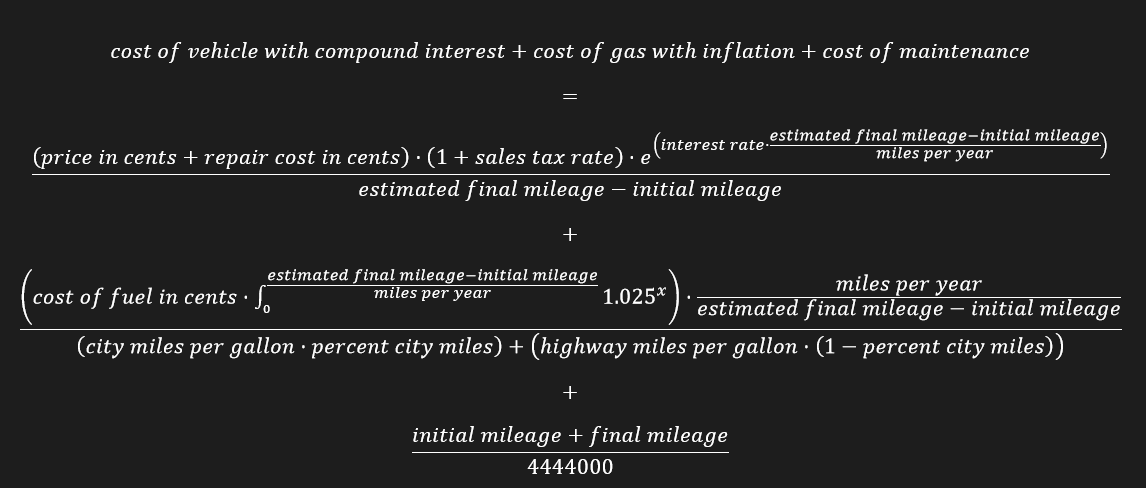
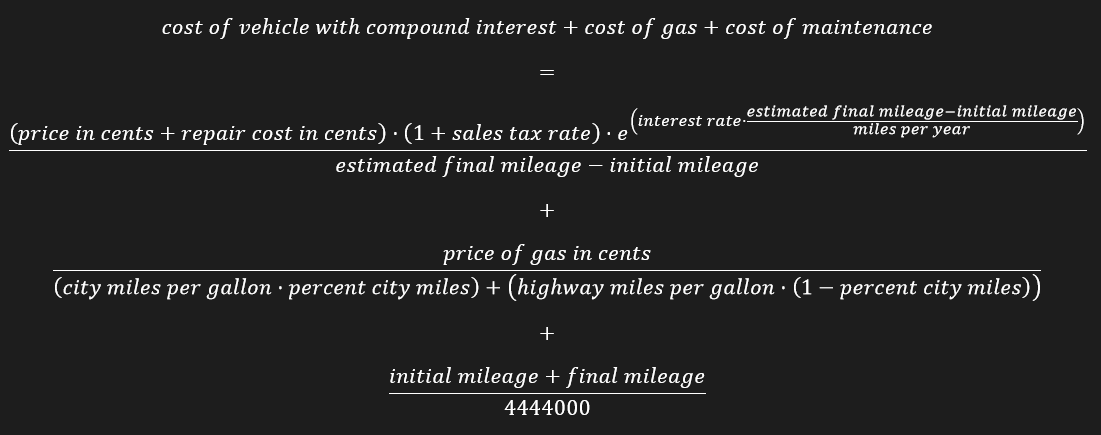
Removed inflation increasing fuel cost, as it provides unfiar comparisons between vehicles w different life expectancies

diff --git a/Grampa Bob's Calculator/MainPage.xaml.cs b/Grampa Bob's Calculator/MainPage.xaml.cs
@@ -207,12 +207,9 @@ namespace Grampa_Bob_s_Calculator
                     Math.Exp(interest * totalYears);
                 double priceRate = price / totalMileage;
 
-                // calculates definite integral for interest with limits 0 to years for 1.025^x
-                double fuelRateNumerator = fuelCost * 40.4979 * (Math.Pow(1.025, totalYears) - 1);
-                double fuelRateDenominator = totalYears *
+                double fuelRate = fuelCost /
                     ((cityMilesPerGallon * percentCityMiles)
                     + (highwayMilesPerGallon * (1 - percentCityMiles)));
-                double fuelRate = fuelRateNumerator / fuelRateDenominator;
 
                 double maintenanceRate = (initialMileage + finalMileage) / 4444000;
 
